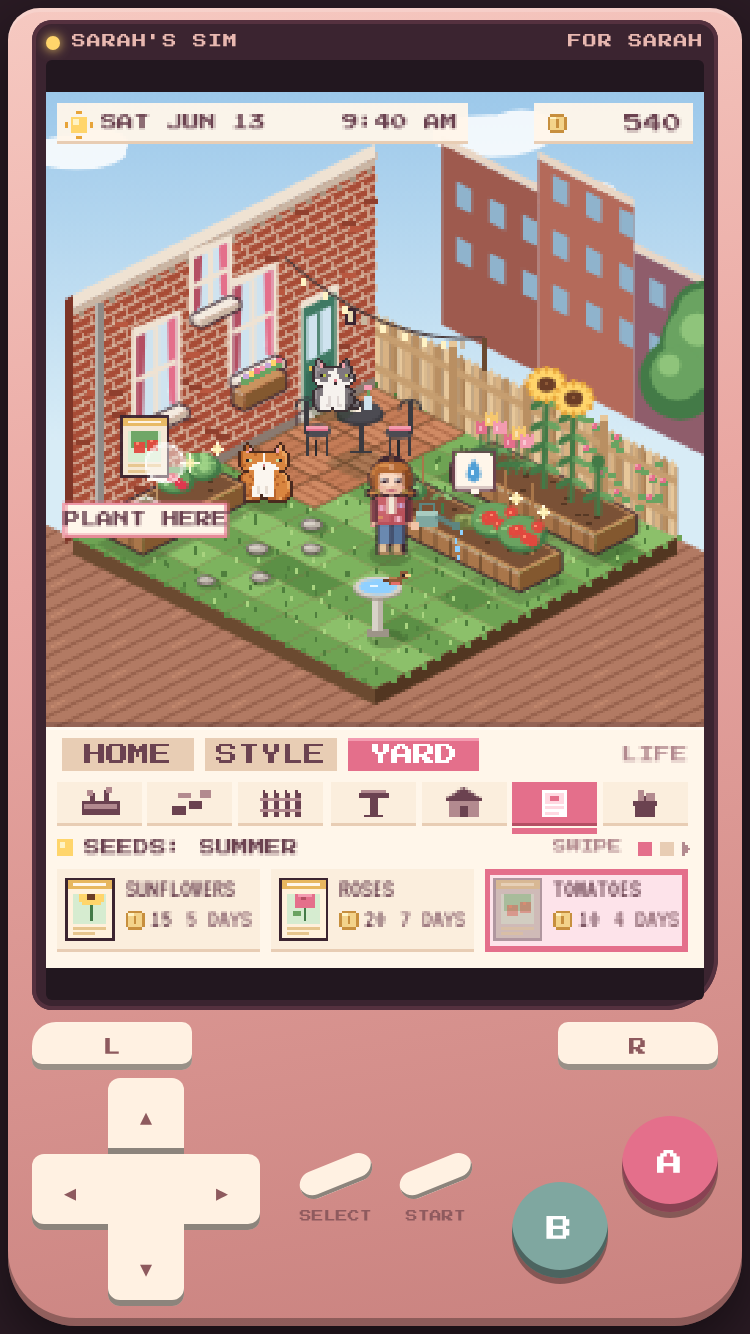
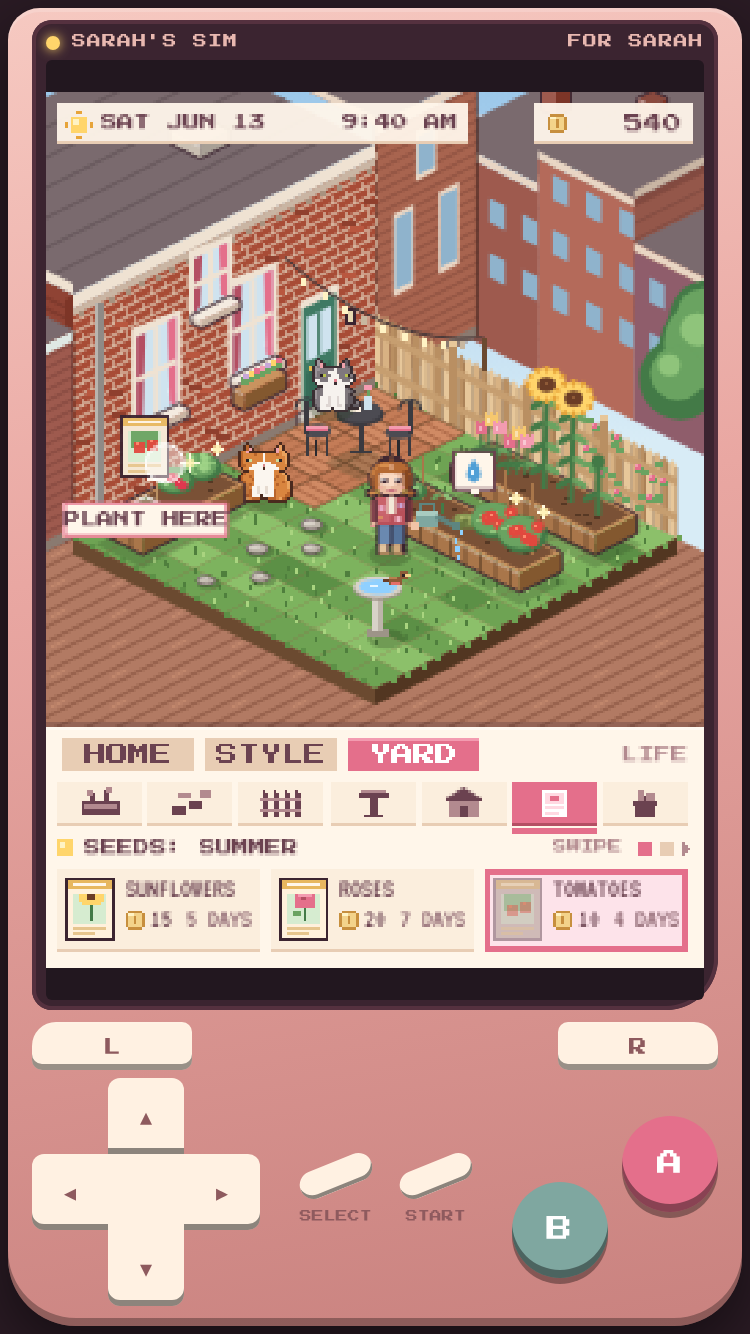
Sarah's Sim: yard mockup shows full rowhouses side by side
Keegan's notes: a back wall alone looked odd, and rowhouses should read
as attached in a row. Their house now has a roof, chimney and side wall;
the neighbors' houses join on both sides; the rowhouses across the alley
have roofs and sides too.

Claude-Session: https://claude.ai/code/session_019kG9BtZjtrUuyQHKgYVmkD

Changed region(s): [[0.0613, 0.0615, 0.9507, 0.4303], [0.7053, 0.2459, 0.736, 0.2766]]

diff --git a/games/sarahs-sim/mockups/yard-v1.js b/games/sarahs-sim/mockups/yard-v1.js
@@ -35,6 +35,7 @@
     poly([A, B, C, D], 'rgba(40,60,30,.22)');
   }
   function ellipseShadow(px, py, rx) { c.fillStyle = WIN ? 'rgba(70,80,120,.22)' : 'rgba(40,60,30,.28)'; c.beginPath(); c.ellipse(px, py, rx, rx / 2, 0, 0, 7); c.fill(); }
+  function shade(hex, f) { var n = parseInt(hex.slice(1), 16), r = n >> 16, g = (n >> 8) & 255, b = n & 255; function k(v) { return Math.max(0, Math.min(255, Math.round(v * (1 + f)))); } return 'rgb(' + k(r) + ',' + k(g) + ',' + k(b) + ')'; }
   function hash(i, j) { var h = Math.sin(i * 127.1 + j * 311.7) * 43758.5453; return h - Math.floor(h); }
 
   var P = {
@@ -113,7 +114,14 @@
     }
     // the backs of the next street's rowhouses, behind the fence
     [[-1, 2.2, 66, '#9e5a4e'], [2.2, 5.4, 78, '#b46a5a'], [5.4, 8.6, 62, '#8f5d6b'], [8.6, 12, 72, '#a8644f']].forEach(function (b, k) {
-      var y = -3.2, a = iso(b[0], y), bb = iso(b[1], y);
+      var y = -3.2, a = iso(b[0], y), bb = iso(b[1], y), back = -9;
+      // a full building: its right side, its flat roof and parapet, then the back wall facing the yard
+      var sb = iso(b[1], back); poly([bb, sb, up(sb, b[2]), up(bb, b[2])], shade(b[3], -.18));
+      for (var sh = 6; sh < b[2]; sh += 6) line(up(bb, sh), up(sb, sh), 'rgba(60,30,30,.18)');
+      var ab = iso(b[0], back);
+      poly([up(a, b[2] + 3), up(bb, b[2] + 3), up(sb, b[2] + 3), up(ab, b[2] + 3)], WIN ? '#f7fbff' : '#7a6a6e');
+      poly([up(bb, b[2] + 3), up(sb, b[2] + 3), up(sb, b[2] + 6), up(bb, b[2] + 6)], WIN ? '#e8f0fa' : '#c9b5a3');
+      var ch = iso(b[0] + 1, -6); box(b[0] + .8, -6.2, .5, .5, 10, WIN ? ['#f7fbff', '#9e5a4e', '#7d3527'] : ['#8a4a3e', '#9e5a4e', '#7d3527'], b[2] + 3);
       poly([a, bb, up(bb, b[2]), up(a, b[2])], b[3]);
       poly([up(a, b[2]), up(bb, b[2]), up(bb, b[2] + 3), up(a, b[2] + 3)], WIN ? '#f7fbff' : '#e9d6c4');
       for (var wx = .5; wx < b[1] - b[0] - .4; wx += 1.1) for (var wh = 26; wh < b[2] - 8; wh += 20) {
@@ -134,8 +142,36 @@
   }
 
   // ---------- the back of their rowhouse (left plane, x = 0) ----------
+  // a neighbor's rowhouse, attached to theirs: back wall on the x = 0 line from y0 to y1, flat roof running back
+  function rowBack(y0, y1, h, brick, trim, door) {
+    var DEEP = -7, a = iso(0, y0), d = iso(0, y1), ad = iso(DEEP, y0), dd = iso(DEEP, y1);
+    poly([a, d, up(d, h), up(a, h)], brick);
+    for (var hh = 3; hh < h; hh += 4) line(up(a, hh), up(d, hh), 'rgba(60,25,20,.22)');
+    poly([a, d, up(d, 4), up(a, 4)], '#8a7a70');
+    var span = y1 - y0;
+    [[.18, 30, 60], [.62, 30, 60], [.4, h - 24, h - 6]].forEach(function (w) {
+      if (door && w[0] < .3 && w[1] < 40) { var e0 = up(iso(0, y0 + span * .14), 0), e1 = up(iso(0, y0 + span * .3), 0); poly([e0, e1, up(e1, 40), up(e0, 40)], trim); var f0 = up(iso(0, y0 + span * .16), 0), f1 = up(iso(0, y0 + span * .28), 0); poly([f0, f1, up(f1, 37), up(f0, 37)], '#5d4a6e'); return; }
+      var y = y0 + span * w[0], p0 = up(iso(0, y), w[1]), p1 = up(iso(0, y + span * .2), w[1]); poly([p0, p1, up(p1, w[2] - w[1]), up(p0, w[2] - w[1])], trim);
+      var q0 = up(iso(0, y + span * .02), w[1] + 2), q1 = up(iso(0, y + span * .18), w[1] + 2); poly([q0, q1, up(q1, w[2] - w[1] - 4), up(q0, w[2] - w[1] - 4)], WIN ? '#ffd98a' : '#8fb3cc');
+    });
+    poly([up(a, h), up(d, h), up(d, h + 4), up(a, h + 4)], WIN ? '#f7fbff' : trim);
+    poly([up(a, h + 4), up(d, h + 4), up(dd, h + 4), up(ad, h + 4)], WIN ? '#f7fbff' : '#7a6a6e');
+    poly([up(d, h + 4), up(dd, h + 4), up(dd, h + 7), up(d, h + 7)], WIN ? '#e8f0fa' : trim);
+    // the party wall line where it meets the next house
+    line(a, up(a, h + 4), 'rgba(40,20,20,.5)'); line(d, up(d, h + 4), 'rgba(40,20,20,.5)');
+  }
   function house(t) {
-    var A = iso(0, 0), D = iso(0, N);
+    var A = iso(0, 0), D = iso(0, N), DEEP = -7;
+    // the rest of the rowhouse: its side wall at the near end, and the flat roof with a parapet, chimney and roof hatch
+    var DS = iso(DEEP, N), AS = iso(DEEP, 0);
+    poly([D, DS, up(DS, HOUSE + 5), up(D, HOUSE + 5)], '#8f4334');
+    for (var hs = 3; hs < HOUSE; hs += 4) line(up(D, hs), up(DS, hs), 'rgba(60,25,20,.25)');
+    [[-2.2, 30, 62], [-5.0, 30, 62], [-3.6, HOUSE - 24, HOUSE - 4]].forEach(function (w) { var p0 = up(iso(w[0], N), w[1]), p1 = up(iso(w[0] - 1.1, N), w[1]); poly([p0, p1, up(p1, w[2] - w[1]), up(p0, w[2] - w[1])], '#efe2d2'); var q0 = up(iso(w[0] - .12, N), w[1] + 2), q1 = up(iso(w[0] - .98, N), w[1] + 2); poly([q0, q1, up(q1, w[2] - w[1] - 4), up(q0, w[2] - w[1] - 4)], WIN ? '#ffd98a' : '#9ec3dc'); });
+    poly([up(A, HOUSE + 5), up(D, HOUSE + 5), up(DS, HOUSE + 5), up(AS, HOUSE + 5)], WIN ? '#f7fbff' : '#7a6a6e');
+    for (var rs = DEEP + 1; rs < 0; rs += 1) line(up(iso(rs, 0), HOUSE + 5), up(iso(rs, N), HOUSE + 5), WIN ? 'rgba(180,195,220,.5)' : 'rgba(60,45,50,.3)');
+    poly([up(D, HOUSE + 5), up(DS, HOUSE + 5), up(DS, HOUSE + 9), up(D, HOUSE + 9)], WIN ? '#e8f0fa' : '#efe2d2');
+    box(-5.2, 6.6, .7, .7, 14, WIN ? ['#f7fbff', '#9e5a4e', '#7d3527'] : ['#6b3a30', '#9e5a4e', '#7d3527'], HOUSE + 5);
+    box(-3.4, 2.4, 1.0, 1.0, 5, WIN ? ['#f7fbff', '#c9bfb2', '#a8a096'] : ['#b9b4ae', '#c9bfb2', '#a8a096'], HOUSE + 5);
     poly([A, D, up(D, HOUSE), up(A, HOUSE)], P.brick[1]);
     for (var h = 3, row = 0; h < HOUSE; h += 4, row++) { // brick courses and joints
       line(up(A, h), up(D, h), P.mortar);
@@ -507,7 +543,9 @@
     st = st || 'seeds'; c = ctx; t = t || 0; WIN = st === 'winter';
     backdrop(W, H, t);
     surround();
+    rowBack(-3.4, 0, HOUSE + 8, '#a8644f', '#e9d6c4', false); // next door, up the row
     house(t);
+    rowBack(N, N + 9, HOUSE - 12, '#9e5a4e', '#dfe9e4', true); // next door, down the row
     fence(t);
     ground();
     patio(0, 0, 3, 5);
